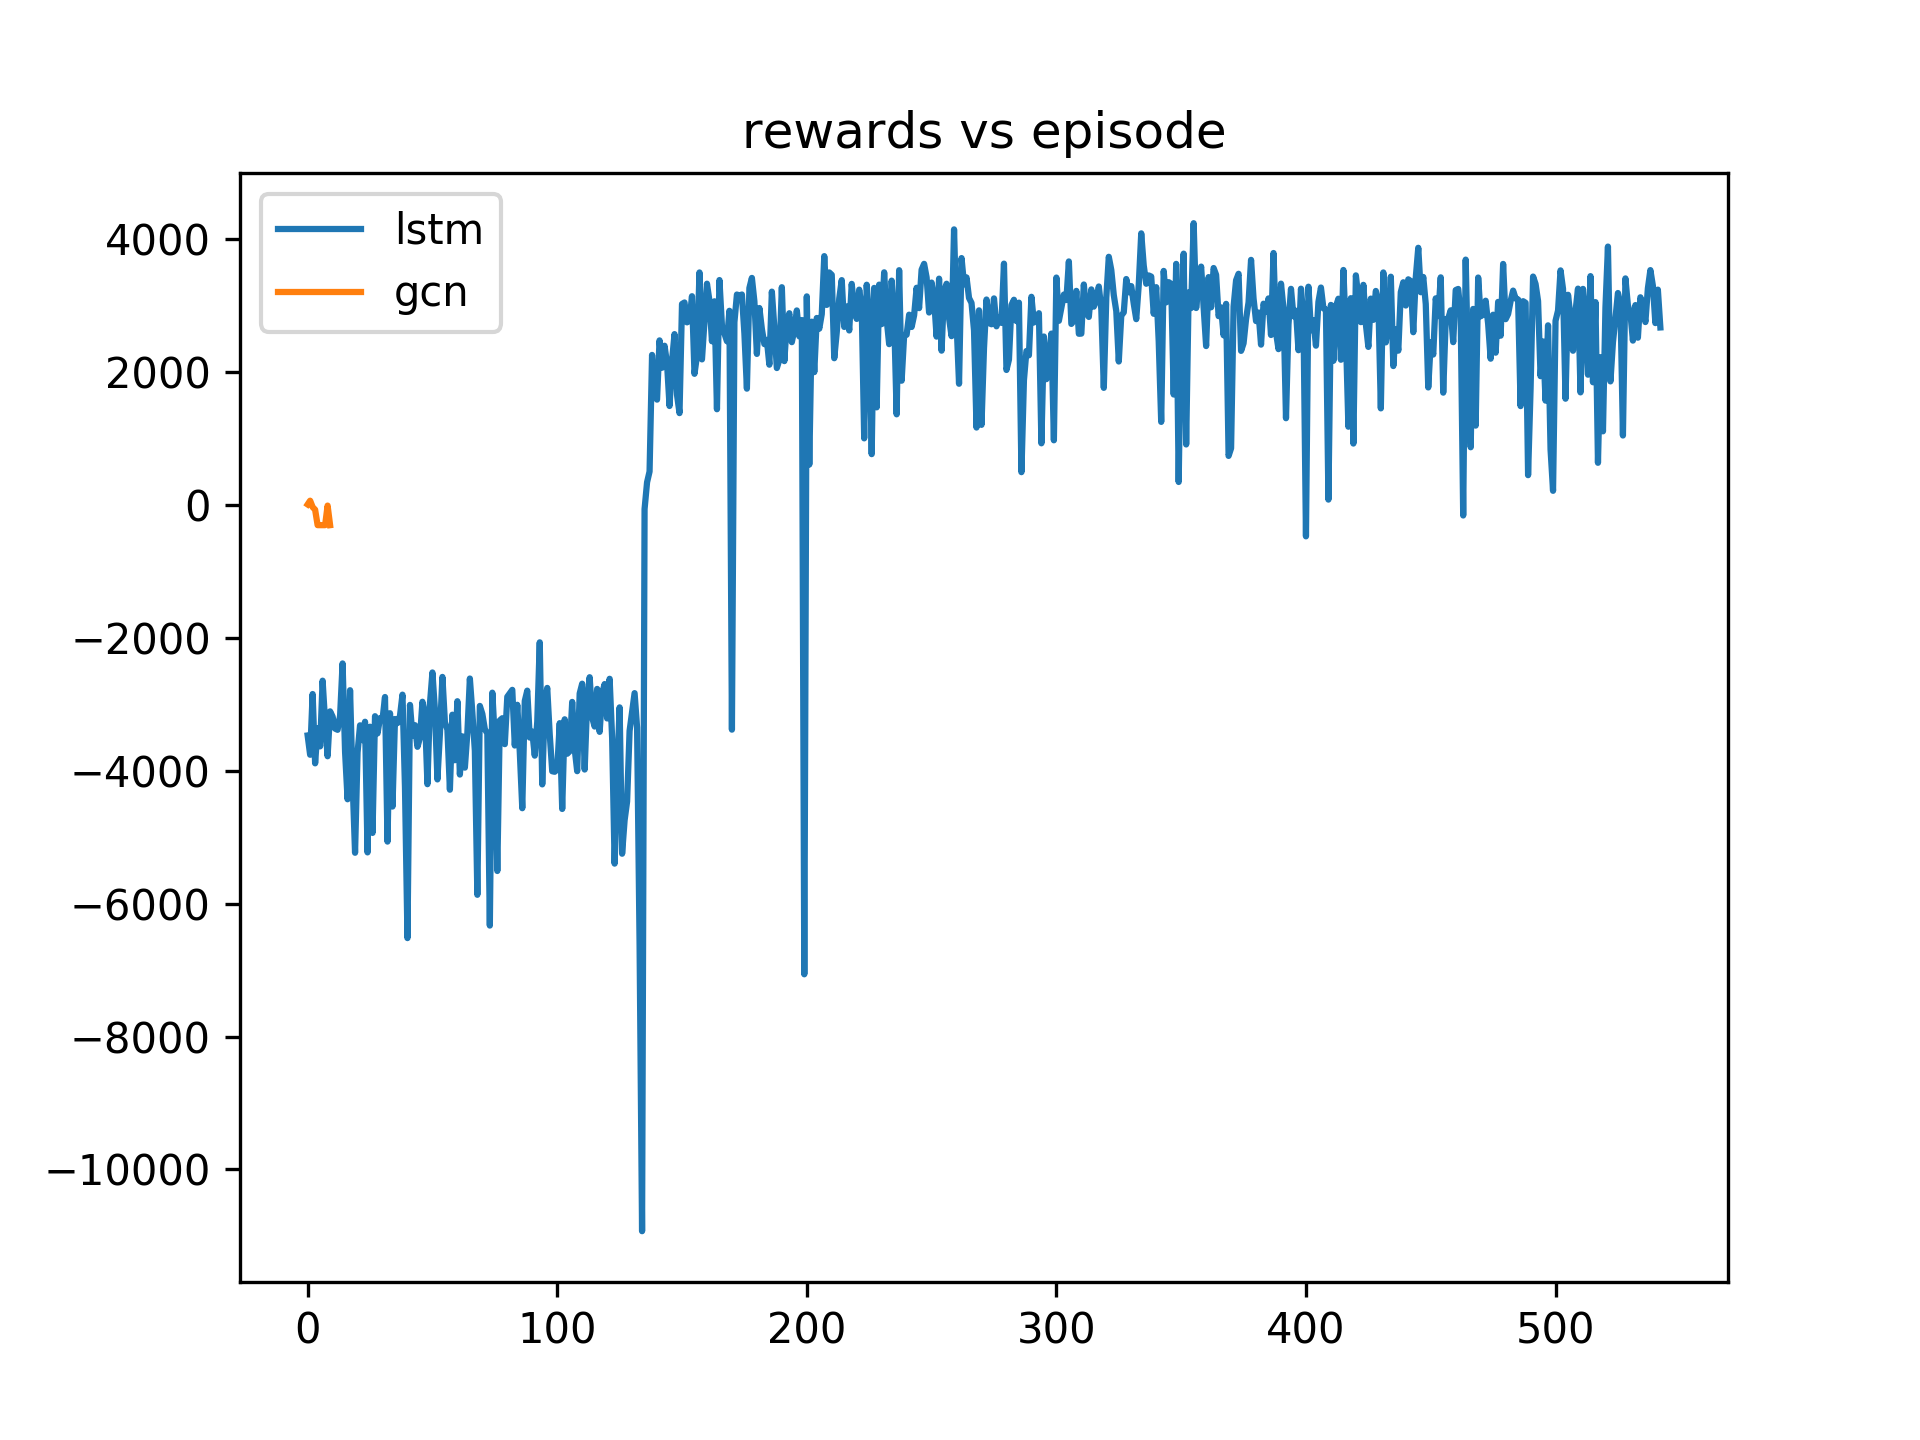
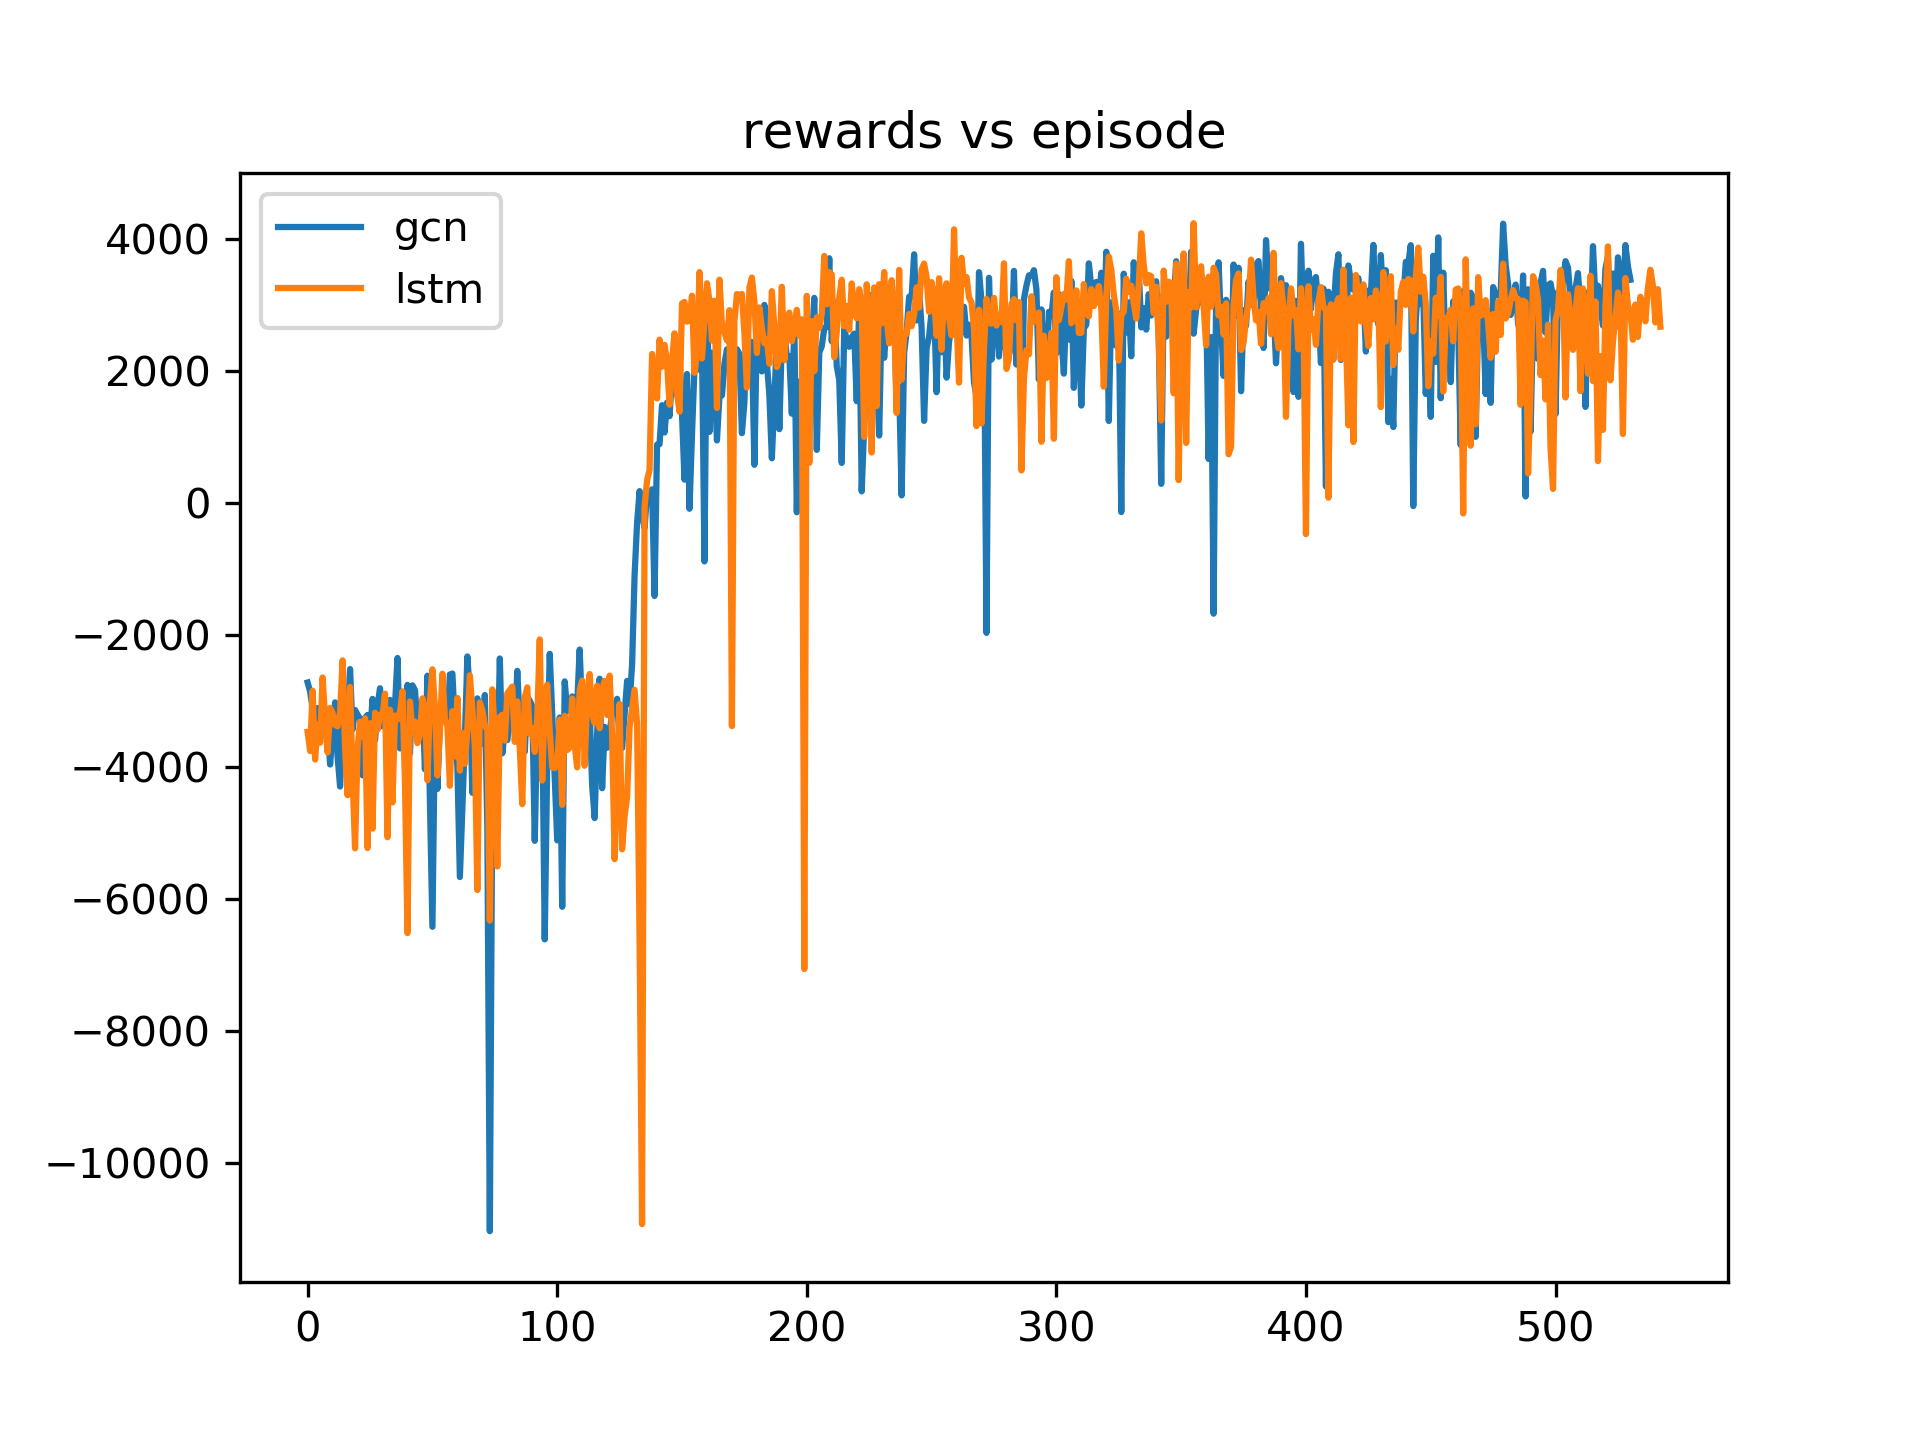
after training

diff --git a/generate_training_plots.py b/generate_training_plots.py
@@ -7,7 +7,7 @@ import json
 def plot_training(logdir):
     # data_file = './logs/training_hist.txt'
     import glob
-    data_files = glob.glob(logdir+'*.txt')
+    data_files = glob.glob(logdir+'*training_hist.txt')
     # print(data_files)
     losses = []
     rewards = []

diff --git a/main.py b/main.py
@@ -15,11 +15,11 @@ TEST_SETTINGS = False
 
 
 
-DEBUG = True
-# DEBUG = False
+#DEBUG = True
+DEBUG = False
 
-# TRAINING = True
-TRAINING = False
+TRAINING = True
+#TRAINING = False
 
 
 RENDER = False
